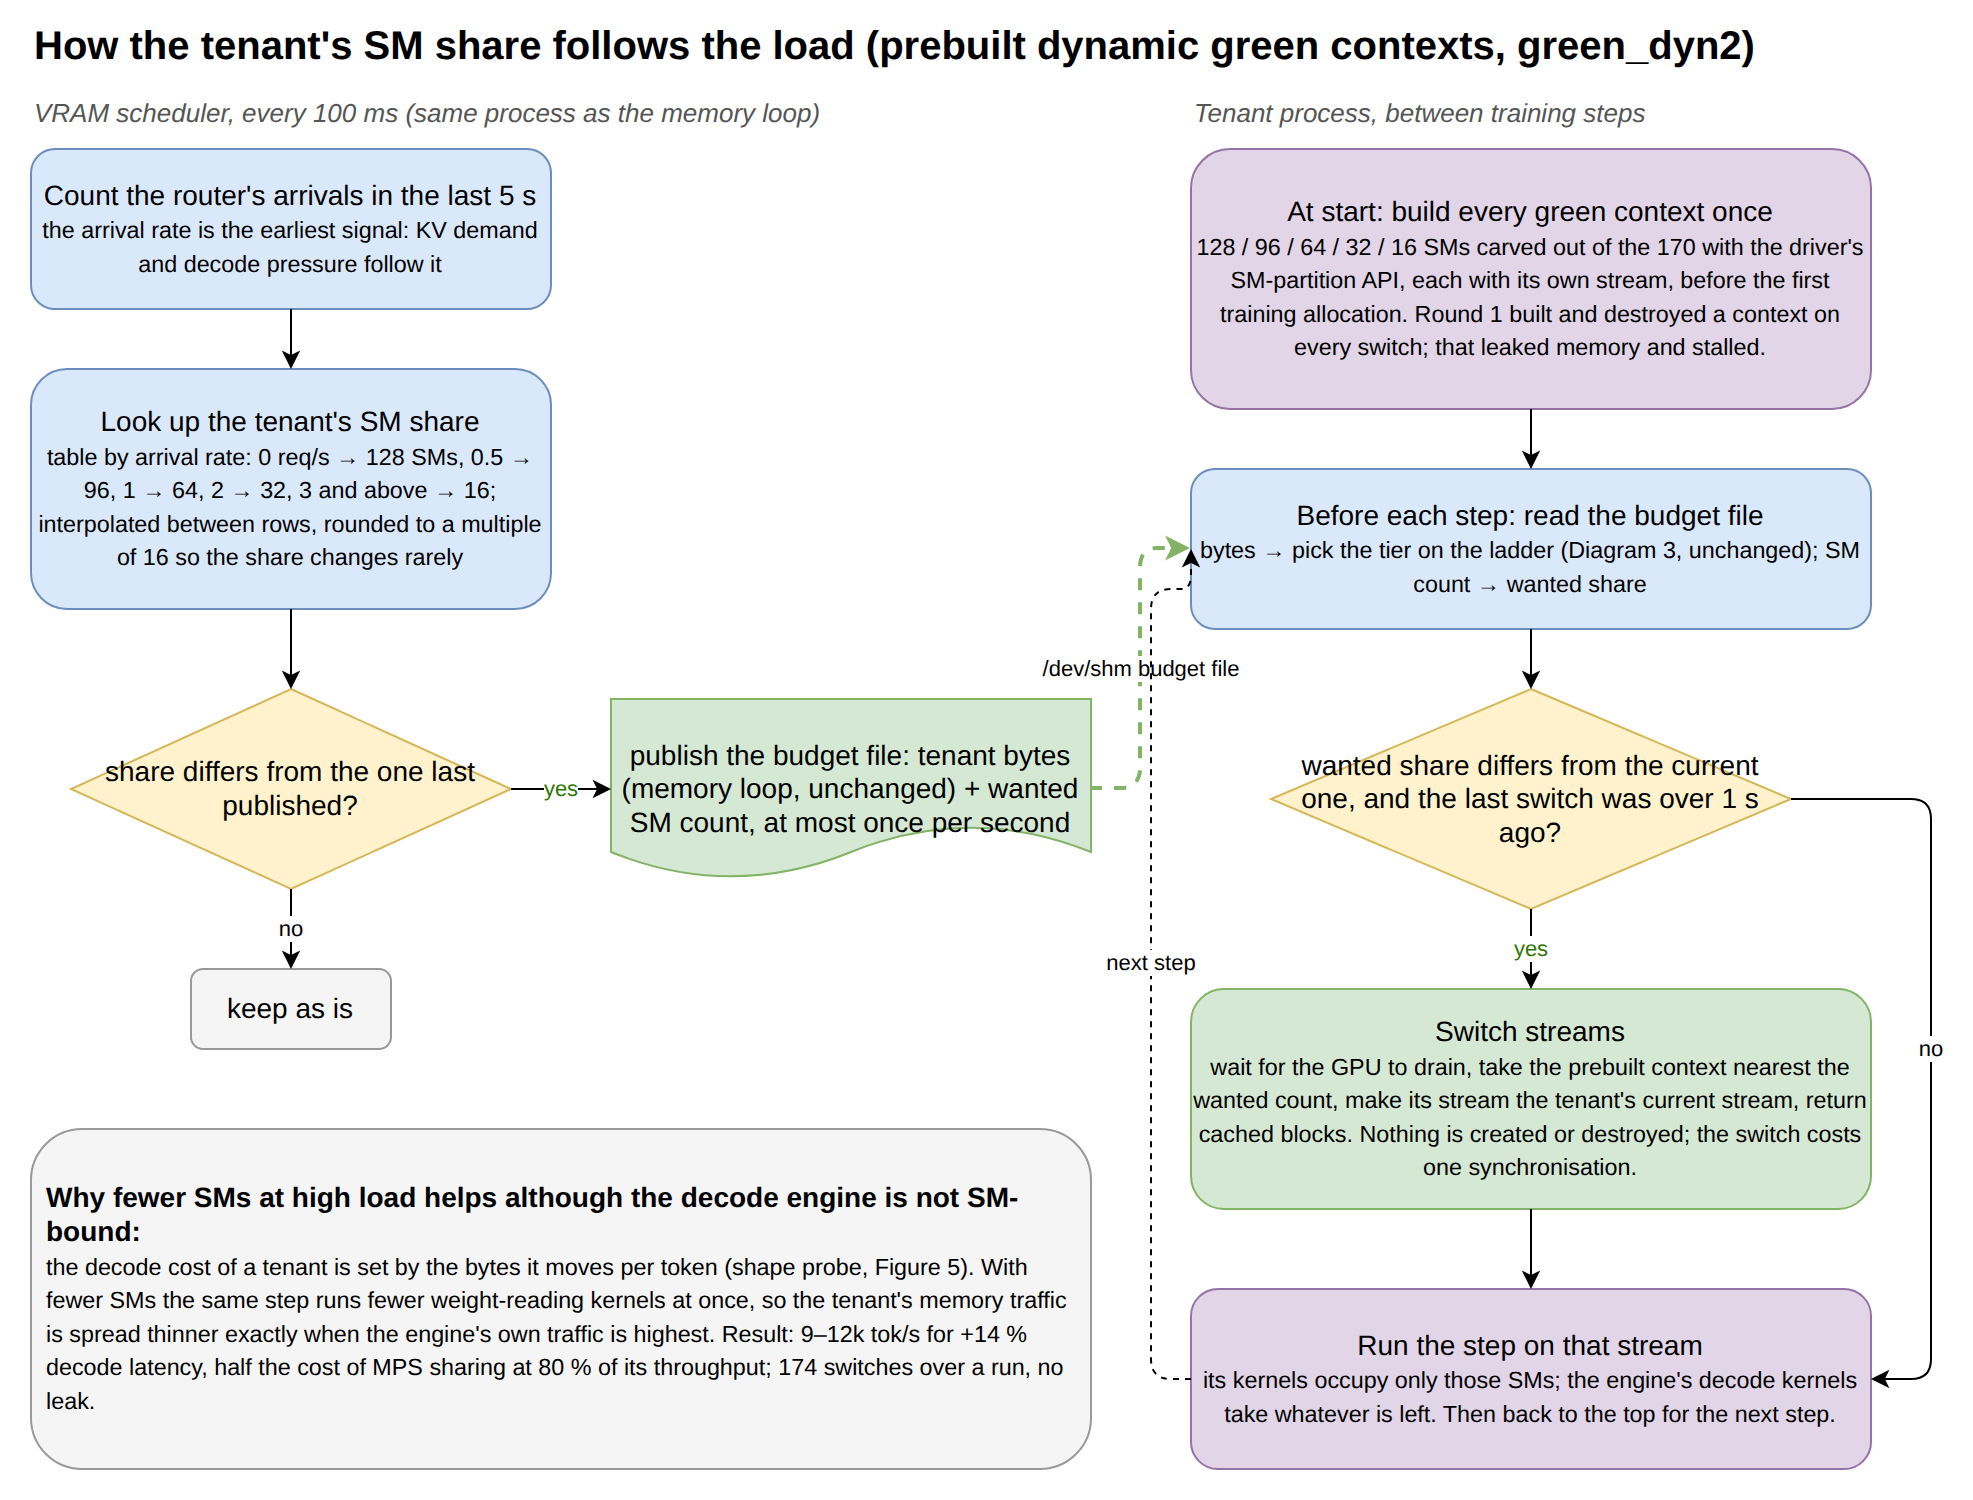
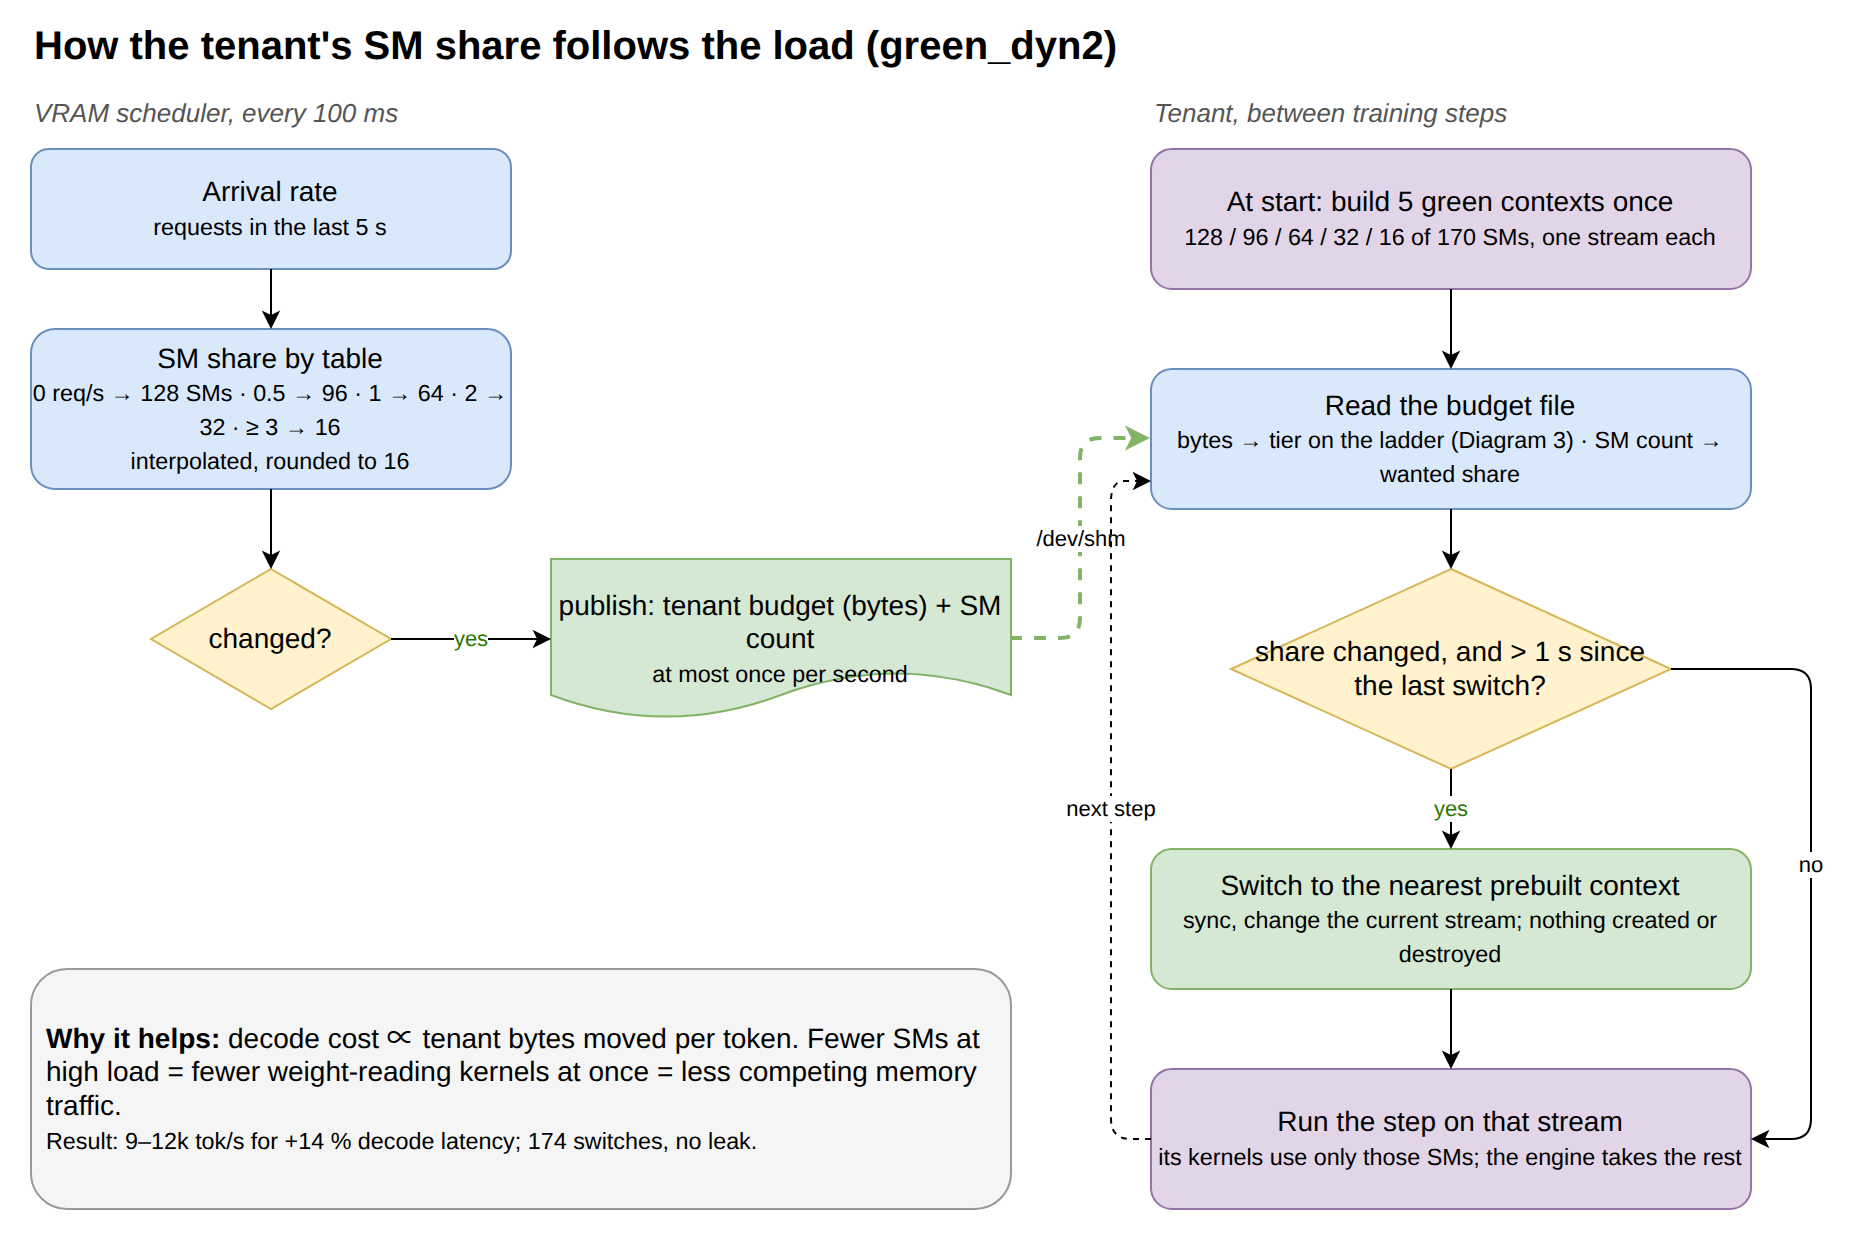
coloc_adjust: Diagrams 5 and 6 with much less text; shorter captions

Changed region(s): [[0.0, 0.0, 0.9843, 0.9806], [0.0, 0.7661, 0.5537, 0.9806]]

diff --git a/coloc_adjust/report/REPORT.md b/coloc_adjust/report/REPORT.md
@@ -196,11 +196,7 @@ Round-1 (600 W) tables for the same schemes are in the git history of this file 
 
 ![dynamic green context](figures/05_green_dyn.png)
 
-*Diagram 5 — the SM-share loop of the prebuilt dynamic green-context scheme (`green_dyn2`, source
-`../diagrams/05_green_dyn.drawio`). Left: the VRAM scheduler turns the recent arrival rate into a
-tenant SM count by table and publishes it beside the memory budget. Right: the tenant built one
-green context per SM count at start and, between steps, only switches its stream to the nearest
-one. The memory ladder (Diagram 3) runs unchanged alongside.*
+*Diagram 5 — the SM-share loop of `green_dyn2`: the scheduler maps the arrival rate to an SM count and publishes it with the budget; the tenant switches between contexts it built once at start. The memory ladder (Diagram 3) runs unchanged alongside.*
 
 | scheme | decode at 1 / 2 req/s (TPOT, queue) | tenant at 1 / 0.5 req/s | note |
 |---|---|---|---|
@@ -290,12 +286,7 @@ node" of a disaggregated pair sharing the GPU with the decode node. Its footprin
 
 ![prefill tenant states](figures/06_pf_tiers.png)
 
-*Diagram 6 — the prefill tenant's three states and what moves it (`pf_tenant.py`, source
-`../diagrams/06_pf_tiers.drawio`): the adapter sets the engine's own kvcached limit to the budget,
-holds new prompts when the budget falls under 0.5 GiB, puts the engine to sleep after 3 idle
-seconds (≈ 260 ms each way) and wakes it once the budget is back with 1 GiB of margin. The red note
-is where the scheme binds: the fixed footprint, and the 3 GiB the scheduler does not yet credit back
-while the engine sleeps.*
+*Diagram 6 — the prefill tenant's three states (`pf_tenant.py`): run with its kvcached limit at the budget, hold new prompts under 0.5 GiB, sleep after 3 idle seconds, wake once the budget is back above 1.5 GiB. The red note is where the scheme binds.*
 
 ![prefill schemes](figures/arms_pf.png)
 
